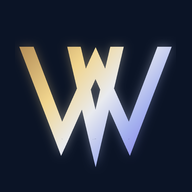
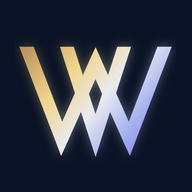
Página simples; V central mais aberto; sem menção a ágape/Pix

diff --git a/index.html b/index.html
@@ -4,300 +4,121 @@
   <meta charset="UTF-8">
   <meta name="viewport" content="width=device-width, initial-scale=1, viewport-fit=cover">
   <title>ViaVeritasVita — tecnologia a serviço da Arte Real</title>
-  <meta name="description" content="Sites de eventos, ágape com Pix, painel da tesouraria, secretaria digital e acervo de rituais, sob medida para Lojas, Capítulos, Conselhos e Grandes Corpos.">
+  <meta name="description" content="Sites de eventos com cronogramas e organizações, tesouraria, secretaria e rituais, feitos sob medida para a sua Loja, Capítulo, Conselho ou Grande Corpo.">
   <meta name="theme-color" content="#0b1426">
-  <link rel="icon" type="image/svg+xml" href="favicon.svg?v=2">
-  <link rel="apple-touch-icon" href="apple-touch-icon.png">
+  <link rel="icon" type="image/svg+xml" href="favicon.svg?v=3">
+  <link rel="apple-touch-icon" href="apple-touch-icon.png?v=3">
 
   <meta property="og:title" content="ViaVeritasVita — tecnologia a serviço da Arte Real">
-  <meta property="og:description" content="Eventos, ágape com Pix, tesouraria, secretaria e rituais, sob medida para o seu Corpo.">
+  <meta property="og:description" content="Eventos, tesouraria, secretaria e rituais, sob medida para o seu Corpo.">
   <meta property="og:type" content="website">
   <meta property="og:url" content="https://viaveritasvita.github.io/">
-  <meta property="og:image" content="https://viaveritasvita.github.io/og-cover.jpg?v=2">
+  <meta property="og:image" content="https://viaveritasvita.github.io/og-cover.jpg?v=3">
   <meta property="og:image:width" content="1200">
   <meta property="og:image:height" content="630">
   <meta name="twitter:card" content="summary_large_image">
 
   <link rel="preconnect" href="https://fonts.googleapis.com">
   <link rel="preconnect" href="https://fonts.gstatic.com" crossorigin>
-  <link href="https://fonts.googleapis.com/css2?family=Cinzel:wght@500;600;700&family=Source+Serif+4:ital,opsz,wght@0,8..60,400;0,8..60,600;1,8..60,400&display=swap" rel="stylesheet">
+  <link href="https://fonts.googleapis.com/css2?family=Cinzel:wght@600;700&family=Source+Serif+4:ital,opsz,wght@0,8..60,400;1,8..60,400&display=swap" rel="stylesheet">
 
   <style>
     :root {
       --ink: #0b1426;
-      --ink-2: #101c33;
       --ink-3: #16264a;
-      --violet: #8f86ee;
-      --silver: #e4e7ec;
-      --ivory: #faf7f0;
-      --paper: #ffffff;
-      --text: #1b2233;
-      --text-soft: #4a5468;
       --gold: #c9a24b;
-      --gold-bright: #e6cd94;
-      --gold-text: #8a6828;
-      --gold-line: rgba(201, 162, 75, 0.38);
-      --cream: #eee7d6;
+      --gold-bright: #f1d58e;
+      --silver: #e4e7ec;
+      --violet: #8f86ee;
+      --cream: #e9e6dd;
       --cream-dim: #b6bccb;
       --whats: #1f8f4e;
       --display: 'Cinzel', 'Times New Roman', serif;
       --body: 'Source Serif 4', Georgia, serif;
-      --maxw: 68rem;
     }
     *, *::before, *::after { box-sizing: border-box; }
-    html { scroll-behavior: smooth; }
-    body { margin: 0; background: var(--ivory); color: var(--text); font-family: var(--body); font-size: 1.08rem; line-height: 1.6; -webkit-font-smoothing: antialiased; overflow-x: hidden; }
-    a { color: inherit; }
-    .wrap { max-width: var(--maxw); margin: 0 auto; padding: 0 1.25rem; }
-
-    /* ---------- topo escuro ---------- */
-    .hero {
-      position: relative; overflow: hidden; color: var(--cream); text-align: center;
+    html, body { margin: 0; }
+    body {
+      min-height: 100vh; min-height: 100dvh;
+      display: flex; align-items: center; justify-content: center;
+      padding: 3rem 1.25rem;
       background:
-        radial-gradient(40rem 24rem at 50% 16%, rgba(143, 134, 238, 0.14), transparent 70%),
-        radial-gradient(30rem 18rem at 42% 10%, rgba(201, 162, 75, 0.16), transparent 70%),
+        radial-gradient(40rem 24rem at 50% 18%, rgba(143, 134, 238, 0.14), transparent 70%),
+        radial-gradient(30rem 18rem at 42% 12%, rgba(201, 162, 75, 0.16), transparent 70%),
         linear-gradient(180deg, var(--ink-3), var(--ink) 70%);
-      padding: 4.5rem 0 5rem;
-      border-bottom: 1px solid var(--gold-line);
+      background-color: var(--ink);
+      color: var(--cream); font-family: var(--body); font-size: 1.08rem; line-height: 1.6;
+      text-align: center; -webkit-font-smoothing: antialiased;
     }
-    .hero::before {
-      /* malha de linhas finas, como um traçado de prancheta */
-      content: ''; position: absolute; inset: 0; opacity: 0.09; pointer-events: none;
-      background-image:
-        linear-gradient(var(--gold) 1px, transparent 1px),
-        linear-gradient(90deg, var(--gold) 1px, transparent 1px);
-      background-size: 64px 64px;
-      mask-image: radial-gradient(circle at 50% 35%, #000 0, transparent 70%);
+    main { max-width: 40rem; animation: surge 0.9s ease both; }
+    @keyframes surge { from { opacity: 0; transform: translateY(12px); } to { opacity: 1; transform: none; } }
+    @media (prefers-reduced-motion: reduce) { main { animation: none; } }
+
+    .emblema { display: block; width: 150px; height: 150px; margin: 0 auto 0.8rem; filter: drop-shadow(0 10px 30px rgba(143, 134, 238, 0.25)); }
+    h1 {
+      margin: 0; font-family: var(--display); font-weight: 700; font-size: clamp(2.1rem, 8vw, 3.6rem); letter-spacing: 0.08em;
+      background: linear-gradient(90deg, #d9b56a, var(--gold-bright) 35%, var(--silver) 55%, #a7b4f0 75%, var(--violet));
+      -webkit-background-clip: text; background-clip: text; color: transparent;
     }
-    .emblema { display: block; width: 150px; height: 150px; margin: 0 auto 1rem; position: relative; filter: drop-shadow(0 10px 30px rgba(143, 134, 238, 0.25)); }
-    .marca { margin: 0; font-family: var(--display); font-weight: 700; font-size: clamp(2.1rem, 7vw, 3.6rem); letter-spacing: 0.08em; position: relative;
-      background: linear-gradient(90deg, #d9b56a, #f1d58e 35%, var(--silver) 55%, #a7b4f0 75%, var(--violet));
-      -webkit-background-clip: text; background-clip: text; color: transparent; }
-    .lema { margin: 0.3rem 0 0; font-family: var(--display); font-size: 0.82rem; letter-spacing: 0.42em; text-indent: 0.42em; text-transform: uppercase; color: var(--gold); position: relative; }
-    .lema small { display: block; margin-top: 0.3rem; font-family: var(--body); font-style: italic; letter-spacing: 0.02em; text-indent: 0; text-transform: none; font-size: 0.95rem; color: var(--cream-dim); }
-    .titulo { margin: 2.2rem auto 0.9rem; max-width: 40rem; font-family: var(--display); font-weight: 600; font-size: clamp(1.5rem, 4.6vw, 2.4rem); line-height: 1.2; color: #fff; position: relative; text-wrap: balance; }
-    .sub { margin: 0 auto; max-width: 38rem; color: var(--cream); font-size: 1.12rem; position: relative; text-wrap: pretty; }
-    .acoes { display: flex; flex-wrap: wrap; gap: 0.7rem; justify-content: center; margin-top: 2rem; position: relative; }
+    .lema { margin: 0.4rem 0 0; font-family: var(--display); font-size: 0.82rem; letter-spacing: 0.42em; text-indent: 0.42em; text-transform: uppercase; color: var(--gold); }
+    .lema small { display: block; margin-top: 0.3rem; font-family: var(--body); font-style: italic; font-size: 0.98rem; letter-spacing: 0.02em; text-indent: 0; text-transform: none; color: var(--cream-dim); }
+    .titulo { margin: 2.2rem auto 0.9rem; font-family: var(--display); font-weight: 600; font-size: clamp(1.45rem, 4.6vw, 2.3rem); line-height: 1.2; color: #fff; text-wrap: balance; }
+    .sub { margin: 0 auto 0.6rem; max-width: 36rem; text-wrap: pretty; }
+
+    .acoes { display: flex; flex-wrap: wrap; gap: 0.7rem; justify-content: center; margin-top: 1.8rem; }
+    .acoes[hidden] { display: none; }
     .btn {
-      display: inline-flex; align-items: center; gap: 0.55rem; min-height: 52px; padding: 0 1.5rem;
-      border-radius: 999px; text-decoration: none; cursor: pointer;
-      font-family: var(--display); font-weight: 700; font-size: 0.84rem; letter-spacing: 0.1em; text-transform: uppercase;
-      border: 1px solid transparent; transition: transform 0.15s, background 0.2s;
+      display: inline-flex; align-items: center; gap: 0.55rem; min-height: 52px; padding: 0 1.6rem;
+      border-radius: 999px; border: 1px solid transparent; cursor: pointer; text-decoration: none;
+      font-family: var(--display); font-weight: 700; font-size: 0.85rem; letter-spacing: 0.1em; text-transform: uppercase;
+      transition: transform 0.15s, background 0.2s;
     }
     .btn:hover { transform: translateY(-1px); }
     .btn svg { width: 1.2rem; height: 1.2rem; }
-    .btn-whats { background: var(--whats); color: #fff; }
-    .btn-whats:hover { background: #17733e; }
     .btn-gold { background: var(--gold); color: var(--ink); }
     .btn-gold:hover { background: var(--gold-bright); }
-    .btn-ghost { color: var(--gold-bright); border-color: var(--gold-line); background: transparent; }
+    .btn-whats { background: var(--whats); color: #fff; }
+    .btn-whats:hover { background: #17733e; }
+    .btn-ghost { background: transparent; color: var(--gold-bright); border-color: rgba(201, 162, 75, 0.45); }
     .btn-ghost:hover { background: rgba(201, 162, 75, 0.1); }
     .btn[hidden] { display: none; }
-
-    /* ---------- seções claras ---------- */
-    section { padding: 4.2rem 0; }
-    .sec-head { text-align: center; max-width: 40rem; margin: 0 auto 2.4rem; }
-    .sec-head .kicker { font-family: var(--display); font-size: 0.74rem; letter-spacing: 0.3em; text-transform: uppercase; color: var(--gold-text); }
-    .sec-head h2 { margin: 0.4rem 0 0.5rem; font-family: var(--display); font-weight: 600; font-size: clamp(1.4rem, 4vw, 2rem); color: var(--ink); text-wrap: balance; }
-    .sec-head p { margin: 0; color: var(--text-soft); }
-
-    .cards { display: grid; gap: 1rem; grid-template-columns: repeat(auto-fit, minmax(17rem, 1fr)); }
-    .card {
-      background: var(--paper); border: 1px solid rgba(138, 104, 40, 0.22); border-radius: 14px; padding: 1.4rem 1.35rem;
-      box-shadow: 0 6px 18px rgba(11, 20, 38, 0.06);
-      transition: transform 0.2s, box-shadow 0.2s;
-    }
-    .card:hover { transform: translateY(-2px); box-shadow: 0 12px 28px rgba(11, 20, 38, 0.1); }
-    .card .ic { width: 2.6rem; height: 2.6rem; color: var(--gold-text); margin-bottom: 0.7rem; }
-    .card h3 { margin: 0 0 0.35rem; font-family: var(--display); font-weight: 600; font-size: 1.06rem; letter-spacing: 0.03em; color: var(--ink); }
-    .card p { margin: 0; color: var(--text-soft); font-size: 1rem; }
-
-    .passos { display: grid; gap: 1rem; grid-template-columns: repeat(auto-fit, minmax(15rem, 1fr)); counter-reset: passo; }
-    .passo { position: relative; padding: 1.3rem 1.3rem 1.3rem 4.2rem; border-left: 1px solid var(--gold-line); }
-    .passo::before {
-      counter-increment: passo; content: counter(passo);
-      position: absolute; left: 1.1rem; top: 1.1rem; width: 2.3rem; height: 2.3rem; border-radius: 50%;
-      display: flex; align-items: center; justify-content: center;
-      font-family: var(--display); font-weight: 700; color: var(--gold-bright); background: var(--ink);
-      box-shadow: 0 0 0 3px var(--ivory), 0 0 0 4px var(--gold-line);
-    }
-    .passo h3 { margin: 0 0 0.25rem; font-family: var(--display); font-weight: 600; font-size: 1.02rem; color: var(--ink); }
-    .passo p { margin: 0; color: var(--text-soft); font-size: 1rem; }
-
-    .frase {
-      background: var(--ink); color: var(--cream); text-align: center; padding: 3.6rem 0;
-      border-top: 1px solid var(--gold-line); border-bottom: 1px solid var(--gold-line);
-    }
-    .frase blockquote { margin: 0 auto; max-width: 42rem; font-family: var(--display); font-weight: 500; font-size: clamp(1.2rem, 3.6vw, 1.7rem); line-height: 1.4; color: #fff; text-wrap: balance; }
-    .frase blockquote em { font-style: normal; color: var(--gold-bright); }
-
-    .contato { text-align: center; }
-    .contato .card { max-width: 34rem; margin: 0 auto; padding: 2rem 1.6rem; }
-    .contato .quem { margin: 0 0 0.2rem; font-family: var(--display); font-weight: 600; font-size: 1.2rem; color: var(--ink); }
-    .contato .papel { margin: 0 0 1.3rem; color: var(--text-soft); }
-    .contato .acoes { margin-top: 0; }
-    .contato .btn-ghost { color: var(--gold-text); border-color: rgba(138, 104, 40, 0.4); }
-    .contato .btn-ghost:hover { background: rgba(138, 104, 40, 0.08); }
-    .discreto { margin: 1.2rem 0 0; font-size: 0.92rem; color: var(--text-soft); }
-
-    footer { background: var(--ink); color: var(--cream-dim); text-align: center; padding: 2rem 0 2.4rem; font-size: 0.9rem; }
-    footer .f-marca { font-family: var(--display); letter-spacing: 0.3em; color: var(--gold); }
-
-    /* entrada suave ao rolar */
-    .surge { opacity: 0; transform: translateY(14px); transition: opacity 0.6s ease, transform 0.6s ease; }
-    .surge.on { opacity: 1; transform: none; }
-    @media (prefers-reduced-motion: reduce) {
-      html { scroll-behavior: auto; }
-      .surge { opacity: 1; transform: none; transition: none; }
-      .card, .btn { transition: none; }
-    }
   </style>
 </head>
 <body>
-
-  <!-- ============ TOPO ============ -->
-  <header class="hero">
-    <div class="wrap">
-      <img class="emblema" src="logo.svg?v=2" width="150" height="150" alt="">
-      <h1 class="marca">ViaVeritasVita</h1>
-      <p class="lema">Via · Veritas · Vita<small>o Caminho, a Verdade e a Vida</small></p>
-
-      <p class="titulo">Tecnologia a serviço da Arte Real.</p>
-      <p class="sub">
-        Sites de eventos, ágape com Pix, tesouraria, secretaria e rituais,
-        feitos sob medida para a sua Loja, Capítulo, Conselho ou Grande Corpo.
-        Menos papel e planilha solta, mais tempo para o que importa: os trabalhos.
-      </p>
-      <div class="acoes">
-        <a class="btn btn-gold" href="#contato" data-revelar>Fale comigo</a>
-        <a class="btn btn-ghost" href="#oque">Ver o que fazemos</a>
-      </div>
-    </div>
-  </header>
-
   <main>
-    <!-- ============ O QUE FAZEMOS ============ -->
-    <section id="oque">
-      <div class="wrap">
-        <header class="sec-head surge">
-          <span class="kicker">O que fazemos</span>
-          <h2>Ferramentas à altura da tradição</h2>
-          <p>Cada projeto nasce com a identidade do seu Corpo: brasão, cores e linguagem.</p>
-        </header>
-        <div class="cards">
-          <article class="card surge">
-            <svg class="ic" viewBox="0 0 24 24" fill="none" stroke="currentColor" stroke-width="1.5" stroke-linecap="round" stroke-linejoin="round" aria-hidden="true"><rect x="3.5" y="4.5" width="17" height="16" rx="2"/><path d="M3.5 9.5h17M8 2.5v4M16 2.5v4M7.5 13.5h3M7.5 17h6"/></svg>
-            <h3>Jornadas e eventos</h3>
-            <p>Programação no celular, com "agora" e "a seguir", agenda e avisos. Abre pelo QR do crachá e funciona até sem sinal no templo.</p>
-          </article>
-          <article class="card surge">
-            <svg class="ic" viewBox="0 0 24 24" fill="none" stroke="currentColor" stroke-width="1.5" stroke-linecap="round" stroke-linejoin="round" aria-hidden="true"><path d="M5 3v5a2.5 2.5 0 0 0 5 0V3M7.5 3v18M17.2 3c-1.9 1.6-2.9 3.9-2.9 6.2 0 1.9 1.2 3.2 2.9 3.2V21"/></svg>
-            <h3>Ágape e inscrições com Pix</h3>
-            <p>O irmão escolhe, o valor sai na hora e o QR do Pix já vem preenchido. Centavos de identificação e envio do comprovante facilitam a conferência.</p>
-          </article>
-          <article class="card surge">
-            <svg class="ic" viewBox="0 0 24 24" fill="none" stroke="currentColor" stroke-width="1.5" stroke-linecap="round" stroke-linejoin="round" aria-hidden="true"><path d="M4 20V10M10 20V4M16 20v-7M22 20H2"/></svg>
-            <h3>Painel da tesouraria</h3>
-            <p>Quem pagou, quem falta, quantas refeições pedir ao buffet. Tudo numa planilha viva, com painel protegido por senha.</p>
-          </article>
-          <article class="card surge">
-            <svg class="ic" viewBox="0 0 24 24" fill="none" stroke="currentColor" stroke-width="1.5" stroke-linecap="round" stroke-linejoin="round" aria-hidden="true"><path d="M14 3H7a2 2 0 0 0-2 2v14a2 2 0 0 0 2 2h10a2 2 0 0 0 2-2V8z"/><path d="M14 3v5h5M8.5 13h7M8.5 16.5h5"/></svg>
-            <h3>Secretaria digital</h3>
-            <p>Atas, circulares, nominatas e controle de documentos organizados, com modelos padronizados e nada perdido em conversa de grupo.</p>
-          </article>
-          <article class="card surge">
-            <svg class="ic" viewBox="0 0 24 24" fill="none" stroke="currentColor" stroke-width="1.5" stroke-linecap="round" stroke-linejoin="round" aria-hidden="true"><path d="M4 19.5V5a2 2 0 0 1 2-2h13v16H6a2 2 0 0 0-2 2.5zM6 19h13v2H6"/><path d="M9 7h6M9 10.5h4"/></svg>
-            <h3>Rituais e acervo</h3>
-            <p>Rituais revisados e diagramados, guias de paramentos e certificados, com a fidelidade que a ritualística exige.</p>
-          </article>
-          <article class="card surge">
-            <svg class="ic" viewBox="0 0 24 24" fill="none" stroke="currentColor" stroke-width="1.5" stroke-linecap="round" stroke-linejoin="round" aria-hidden="true"><circle cx="12" cy="12" r="8.5"/><path d="M12 6.5l1.6 3.4 3.7.5-2.7 2.6.7 3.7L12 15l-3.3 1.7.7-3.7-2.7-2.6 3.7-.5z"/></svg>
-            <h3>Identidade visual</h3>
-            <p>Brasões tratados, miniaturas para o WhatsApp, crachás com QR e artes que valorizam o seu Corpo.</p>
-          </article>
-        </div>
-      </div>
-    </section>
+    <img class="emblema" src="logo.svg?v=3" width="150" height="150" alt="">
+    <h1>ViaVeritasVita</h1>
+    <p class="lema">Via · Veritas · Vita<small>o Caminho, a Verdade e a Vida</small></p>
 
-    <!-- ============ FRASE ============ -->
-    <div class="frase">
-      <div class="wrap">
-        <blockquote class="surge">A tradição se preserva com zelo.<br><em>A organização, com boas ferramentas.</em></blockquote>
-      </div>
+    <p class="titulo">Tecnologia a serviço da Arte Real.</p>
+    <p class="sub">Sites de eventos com cronogramas e organizações, tesouraria, secretaria e rituais, feitos sob medida para a sua Loja, Capítulo, Conselho ou Grande Corpo.</p>
+    <p class="sub">Menos papel e planilha solta, mais tempo para o que importa: os trabalhos.</p>
+
+    <div class="acoes">
+      <button type="button" class="btn btn-gold" id="btnFale">Fale comigo</button>
     </div>
-
-    <!-- ============ COMO FUNCIONA ============ -->
-    <section>
-      <div class="wrap">
-        <header class="sec-head surge">
-          <span class="kicker">Como funciona</span>
-          <h2>Do pedido ao link na mão dos irmãos</h2>
-        </header>
-        <div class="passos">
-          <div class="passo surge"><h3>Você conta o que precisa</h3><p>Uma conversa rápida: o evento, a sessão, o problema da tesouraria ou da secretaria.</p></div>
-          <div class="passo surge"><h3>Montamos com a sua identidade</h3><p>Brasão, cores e textos do seu Corpo. Você revisa antes de ir ao ar.</p></div>
-          <div class="passo surge"><h3>Os irmãos acessam e usam</h3><p>Um link ou um QR. Sem instalar nada, no celular de qualquer irmão.</p></div>
-        </div>
-      </div>
-    </section>
-
-    <!-- ============ CONTATO ============ -->
-    <section class="contato" id="contato">
-      <div class="wrap">
-        <header class="sec-head surge">
-          <span class="kicker">Contato</span>
-          <h2>Vamos conversar?</h2>
-          <p>Se a sua Loja, Capítulo ou Conselho tem um evento pela frente, ou uma tarefa que toma tempo demais, fale comigo.</p>
-        </header>
-        <div class="card surge">
-          <p class="quem">Ir. Rogério Toledo</p>
-          <p class="papel">ViaVeritasVita · estrutura de apoio à Maçonaria</p>
-          <div class="acoes">
-            <button type="button" class="btn btn-gold" id="btnRevelar" data-revelar>Mostrar contato</button>
-          </div>
-          <div class="acoes" id="contatos" hidden>
-            <a class="btn btn-whats" id="cWhats" href="#" target="_blank" rel="noopener">
-              <svg viewBox="0 0 16 16" fill="currentColor" aria-hidden="true"><path d="M8 1.4A6.6 6.6 0 0 0 2.3 11l-.9 3.4 3.5-.9A6.6 6.6 0 1 0 8 1.4zm3.5 9.2c-.2.5-1 .9-1.4.9-.4.1-.8.1-1.3-.1a10 10 0 0 1-2.1-1A8.2 8.2 0 0 1 4.4 8c-.3-.6-.5-1.2-.4-1.8.1-.5.4-.9.7-1.1.2-.2.5-.2.7-.1l.5 1.1c.1.2.1.4 0 .6l-.4.5c-.1.2-.1.3 0 .5.2.4.7 1 1.2 1.4.5.4 1 .7 1.5.9.2.1.3 0 .4-.1l.5-.6c.2-.2.4-.2.6-.1l1.2.6c.2.1.3.3.2.6z"/></svg>
-              WhatsApp
-            </a>
-            <a class="btn btn-ghost" id="cEmail" href="#">E-mail</a>
-          </div>
-          <p class="discreto">Atendimento entre irmãos, com discrição e sigilo.</p>
-        </div>
-      </div>
-    </section>
+    <div class="acoes" id="contatos" hidden>
+      <a class="btn btn-whats" id="cWhats" href="#" target="_blank" rel="noopener">
+        <svg viewBox="0 0 16 16" fill="currentColor" aria-hidden="true"><path d="M8 1.4A6.6 6.6 0 0 0 2.3 11l-.9 3.4 3.5-.9A6.6 6.6 0 1 0 8 1.4zm3.5 9.2c-.2.5-1 .9-1.4.9-.4.1-.8.1-1.3-.1a10 10 0 0 1-2.1-1A8.2 8.2 0 0 1 4.4 8c-.3-.6-.5-1.2-.4-1.8.1-.5.4-.9.7-1.1.2-.2.5-.2.7-.1l.5 1.1c.1.2.1.4 0 .6l-.4.5c-.1.2-.1.3 0 .5.2.4.7 1 1.2 1.4.5.4 1 .7 1.5.9.2.1.3 0 .4-.1l.5-.6c.2-.2.4-.2.6-.1l1.2.6c.2.1.3.3.2.6z"/></svg>
+        WhatsApp
+      </a>
+      <a class="btn btn-ghost" id="cEmail" href="#">E-mail</a>
+    </div>
   </main>
 
-  <footer>
-    <div class="wrap">
-      <p class="f-marca">VIAVERITASVITA</p>
-      <p>Via · Veritas · Vita</p>
-    </div>
-  </footer>
-
   <script>
-    /* ---------- CONTATO ----------
-       O número e o e-mail ficam embaralhados (base64 do texto invertido)
-       e só são montados quando o irmão toca em "Mostrar contato".
+    /* Contato embaralhado (base64 do texto invertido): só é montado
+       quando alguém toca em "Fale comigo".
        Para trocar: btoa('novo-valor'.split('').reverse().join('')) */
     const C_ = { w: 'NDQzMzc2NTk5NjY1NQ==', e: 'bW9jLmxpYW1nQG9obGlmb2RlbG90b2lyZWdvcg==' };
     const des = (s) => atob(s).split('').reverse().join('');
     const msg = 'Olá, Ir. Rogério! Vi a página da ViaVeritasVita e gostaria de conversar sobre um projeto para o meu Corpo.';
-    function revelar() {
-      const box = document.getElementById('contatos');
-      if (!box.hidden) return;
+    document.getElementById('btnFale').addEventListener('click', function () {
       document.getElementById('cWhats').href = 'https://wa.me/' + des(C_.w) + '?text=' + encodeURIComponent(msg);
       document.getElementById('cEmail').href = 'mailto:' + des(C_.e) + '?subject=' + encodeURIComponent('ViaVeritasVita');
-      box.hidden = false;
-      document.getElementById('btnRevelar').hidden = true;
-    }
-    document.querySelectorAll('[data-revelar]').forEach((b) => b.addEventListener('click', revelar));
-
-    // entrada suave das seções
-    const io = 'IntersectionObserver' in window
-      ? new IntersectionObserver((es) => es.forEach((e) => { if (e.isIntersecting) { e.target.classList.add('on'); io.unobserve(e.target); } }), { threshold: 0.12 })
-      : null;
-    document.querySelectorAll('.surge').forEach((el) => io ? io.observe(el) : el.classList.add('on'));
+      document.getElementById('contatos').hidden = false;
+      this.hidden = true;
+    });
   </script>
 </body>
 </html>
